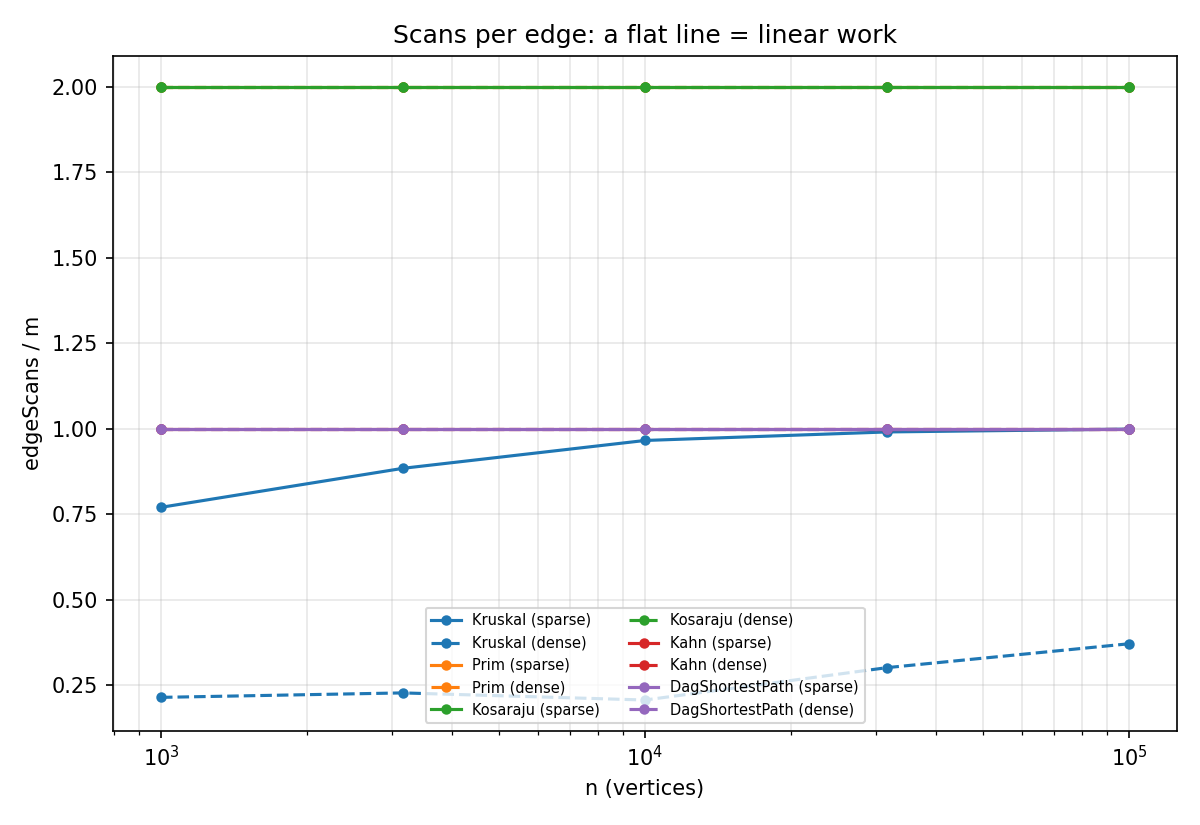
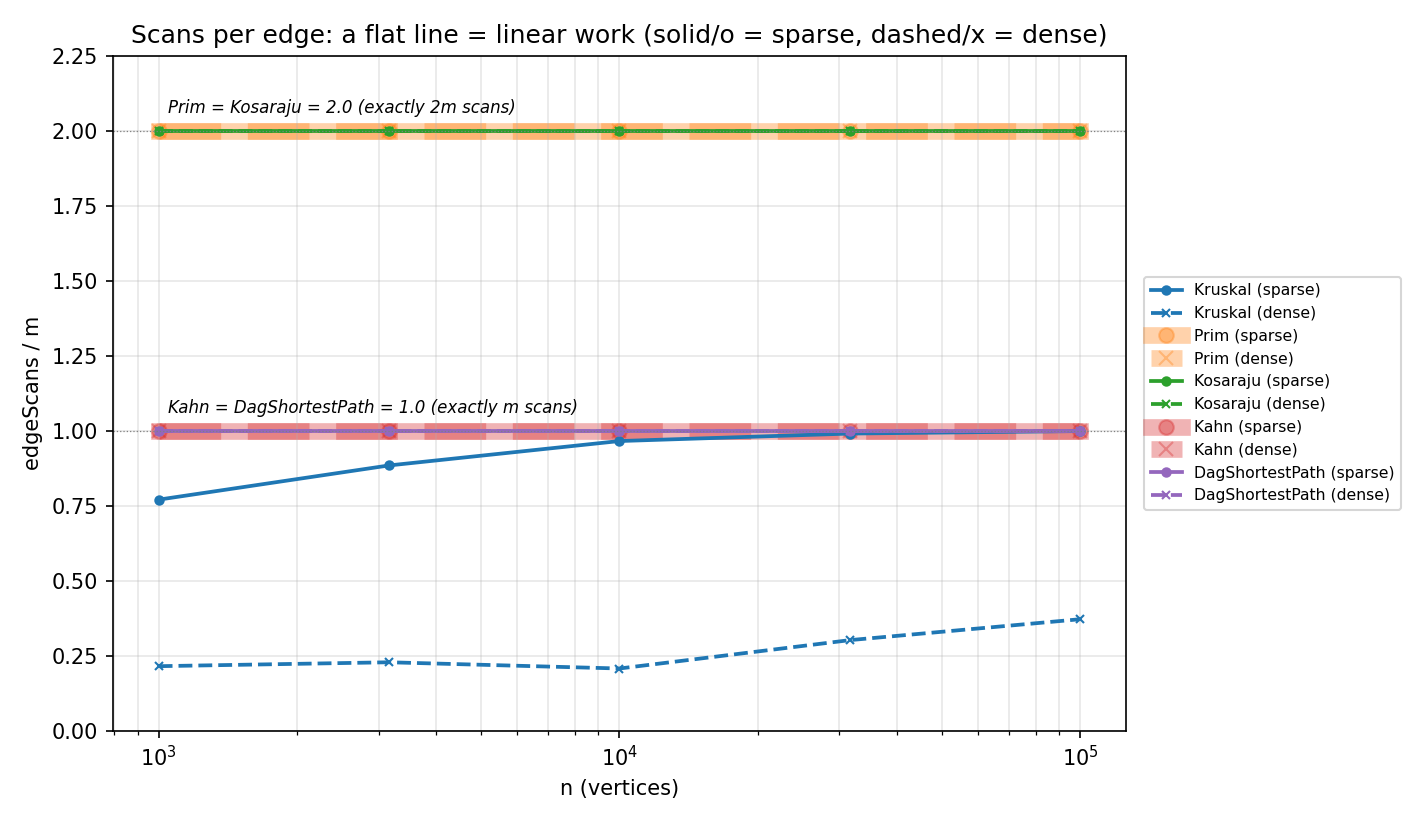
docs(report): make all algorithms visible on scans-per-edge plot

diff --git a/scripts/analyze.py b/scripts/analyze.py
@@ -58,15 +58,27 @@ ax.grid(True, which="both", alpha=0.3); ax.legend(fontsize=7, ncol=2)
 fig.tight_layout(); fig.savefig(f"{PLOTS}/1_operations_vs_n.png", dpi=150); plt.close(fig)
 
 # ---- plot 2: scans per edge --------------------------------------------------------------------
-fig, ax = plt.subplots(figsize=(8, 5.5))
+# Several algorithms have identical edgeScans / m at every n (Prim = Kosaraju = 2.0, Kahn = DagShortestPath = 1.0),
+# so their lines lie exactly on top of each other. Prim and Kahn are therefore drawn as a wide translucent line
+# underneath (like plot 1) so that every algorithm stays visible; the legend sits outside the axes.
+UNDERLAY = {"Prim", "Kahn"}
+MARKERS = {"sparse": "o", "dense": "x"}
+fig, ax = plt.subplots(figsize=(9.5, 5.5))
 for algo in ALGOS:
     for density, style in (("sparse", "-"), ("dense", "--")):
         s = series(algo, density)
-        ax.plot(s.n, s.scans_per_edge, style, marker="o", ms=4, color=COLORS[algo], label=f"{algo} ({density})")
-ax.set_xscale("log")
+        under = algo in UNDERLAY
+        ax.plot(s.n, s.scans_per_edge, style, marker=MARKERS[density], ms=7 if under else 4, color=COLORS[algo],
+                label=f"{algo} ({density})", lw=8 if under else 1.8, alpha=0.35 if under else 1.0,
+                zorder=1 if under else 2)
+ax.set_xscale("log"); ax.set_ylim(0, 2.25)
+ax.axhline(2.0, color="gray", lw=0.6, ls=":"); ax.axhline(1.0, color="gray", lw=0.6, ls=":")
+ax.text(1.05e3, 2.06, "Prim = Kosaraju = 2.0 (exactly 2m scans)", fontsize=8, style="italic")
+ax.text(1.05e3, 1.06, "Kahn = DagShortestPath = 1.0 (exactly m scans)", fontsize=8, style="italic")
 ax.set_xlabel("n (vertices)"); ax.set_ylabel("edgeScans / m")
-ax.set_title("Scans per edge: a flat line = linear work")
-ax.grid(True, which="both", alpha=0.3); ax.legend(fontsize=7, ncol=2)
+ax.set_title("Scans per edge: a flat line = linear work (solid/o = sparse, dashed/x = dense)")
+ax.grid(True, which="both", alpha=0.3)
+ax.legend(fontsize=7.5, loc="center left", bbox_to_anchor=(1.01, 0.5))
 fig.tight_layout(); fig.savefig(f"{PLOTS}/2_scans_per_edge.png", dpi=150); plt.close(fig)
 
 # ---- plot 3: share of edges Kruskal examines ----------------------------------------------------
